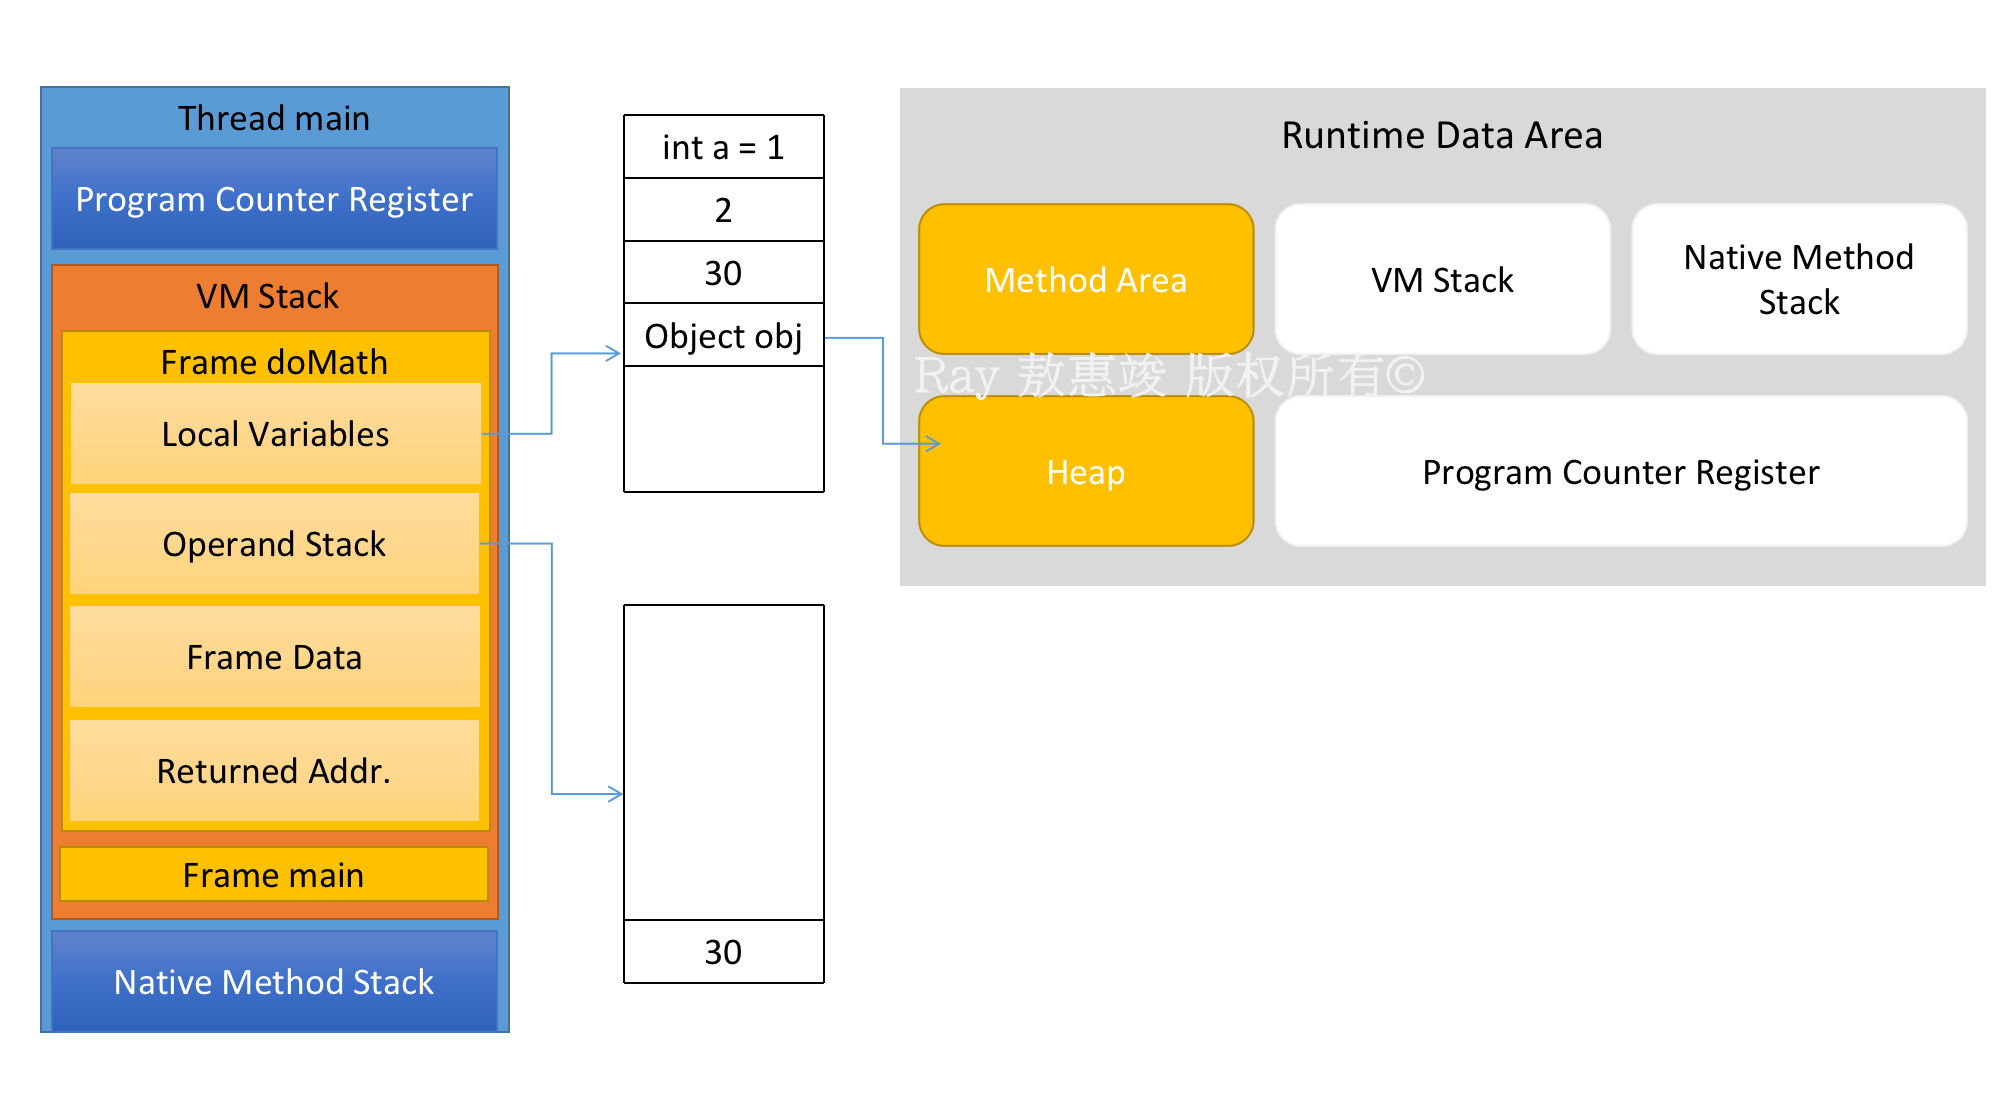
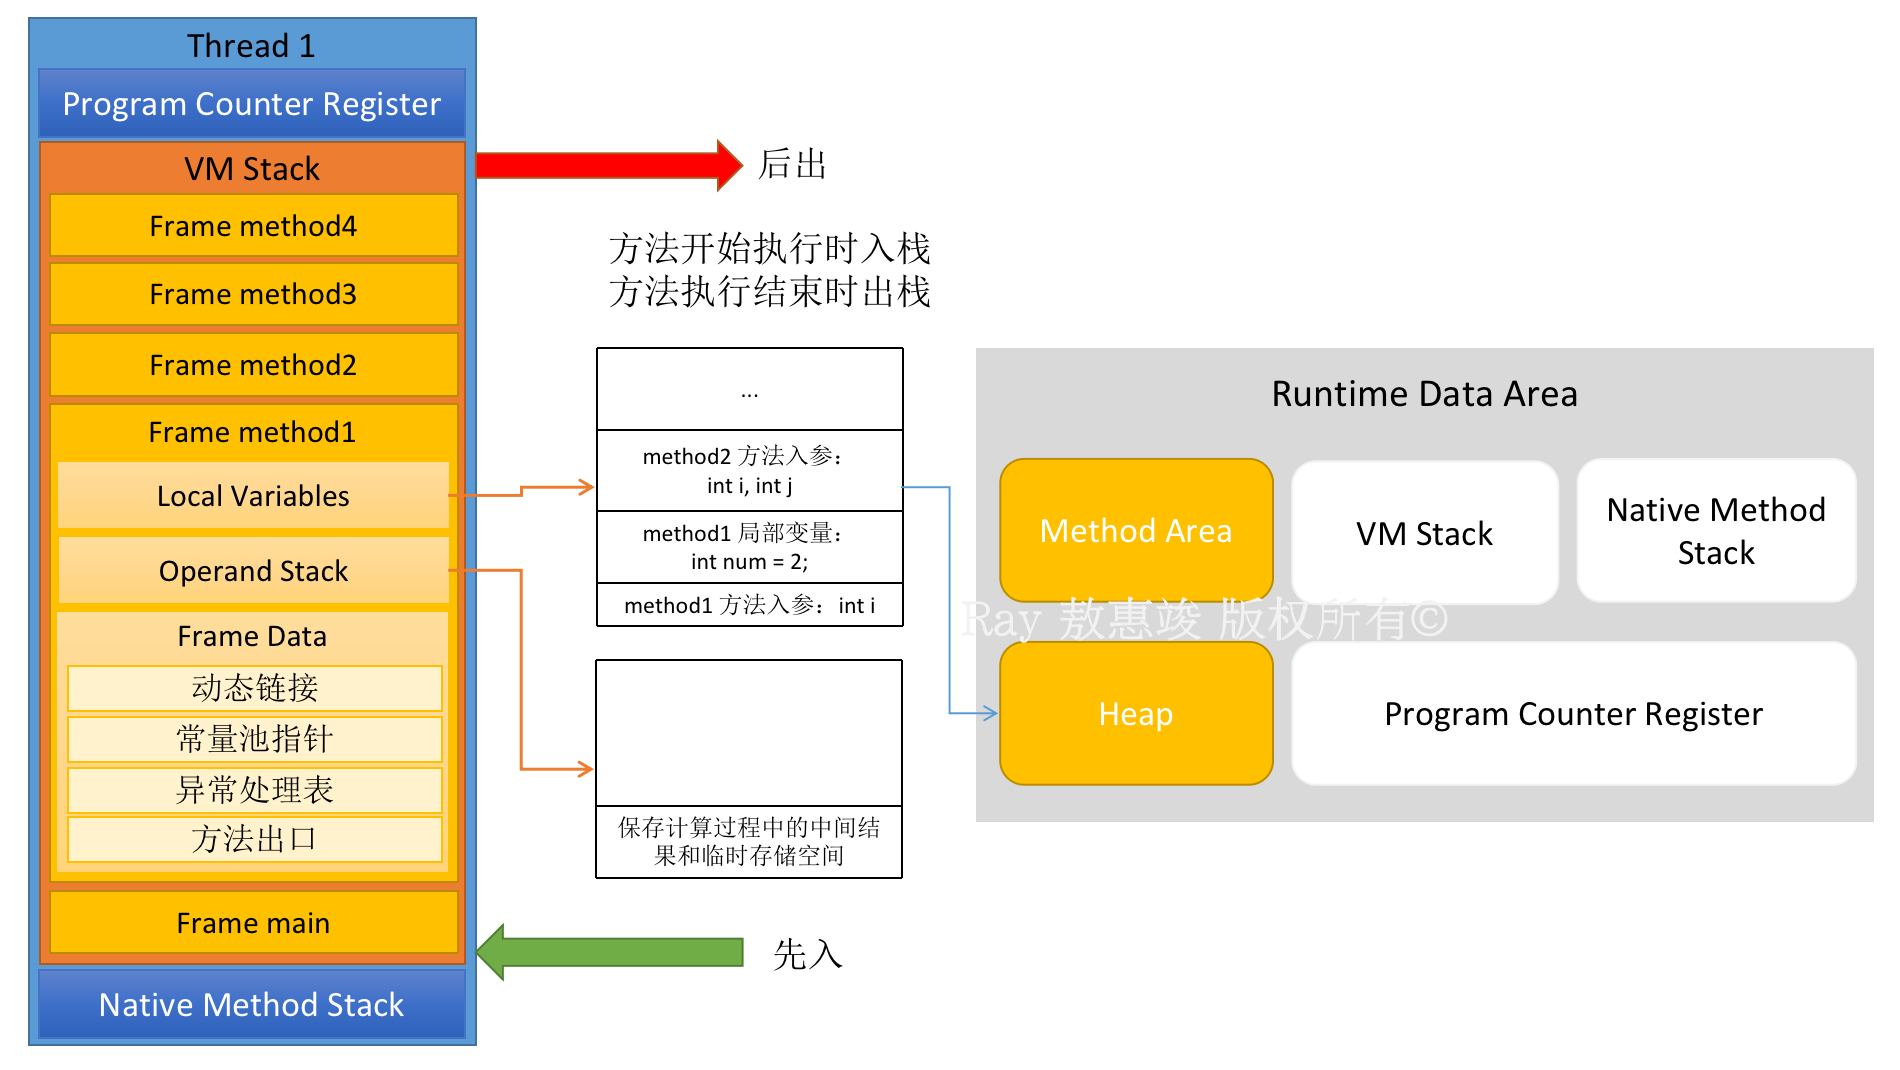
Site updated: 2021-08-23 23:05:19

diff --git a/2021/07/07/jvm-basics/index.html b/2021/07/07/jvm-basics/index.html
@@ -37,7 +37,7 @@
 <meta property="og:image" content="http://example.com/2021/07/07/jvm-basics/memory-allocate.png">
 <meta property="og:image" content="http://example.com/2021/07/07/jvm-basics/object-allocate.png">
 <meta property="article:published_time" content="2021-07-07T14:44:49.000Z">
-<meta property="article:modified_time" content="2021-08-22T16:00:33.181Z">
+<meta property="article:modified_time" content="2021-08-23T14:55:34.525Z">
 <meta property="article:author" content="敖惠竣｜Ao Huijun, Raymond">
 <meta property="article:tag" content="Java">
 <meta property="article:tag" content="JVM">
@@ -289,7 +289,7 @@
 <ul>
 <li>存在于 Java 8 之前的 Hotspot 虚拟机中，其他类型 JVM 没有这个概念</li>
 <li>从 Java 8 开始，PermGen 被取消，以 Metaspace 元空间代替</li>
-<li>存放 Class 和 Meta 信息等，GC 时一般不清理。</li>
+<li>内存的永久保存区域，存放 Class 和 Meta 信息等，GC 时不清理。</li>
 </ul>
 <p>实际上，堆只保存对象实例的<strong>属性类型</strong>、<strong>属性值</strong>（多数在常量池中）、<strong>运行时数据</strong>和<strong>对象本身类型标记</strong>（在<a href="/2021/07/16/object-header">对象头</a>中）等，并不保存对象的方法（保存在栈里）。</p>
 <p>要注意的是，在创建一个对象的时候：</p>
@@ -302,7 +302,7 @@
 <p>方法区是 JVM 的一个<strong>概念</strong>，各个不同的 JVM 有不一样的具体实现，不同版本的 JDK 对应的 JVM 也会根据设计规范有不一样的实现。</p>
 <p>方法区存放的东西有很多，主要包括：</p>
 <ol>
-<li>Object Class Data（类的类定义数据，即类信息）</li>
+<li>Object Class Data（类的类定义数据，即类型信息）</li>
 <li>域（Field）信息</li>
 <li>方法（Method）信息</li>
 <li>即时编译器 JIT 编译后的代码缓存（CodeCache）</li>
@@ -366,7 +366,8 @@
 <ol>
 <li>设置的永久区空间大小，不太好确定，更容易遇到内存溢出的问题</li>
 <li>垃圾回收的时候会扫描永久区：耗时</li>
-<li>对永久区调优比较困难</li>
+<li>而且对永久区的调优是比较困难的</li>
+<li>Hotspot 为了能与 Oracle JRockit（没有永久区）合并而做的改动</li>
 </ol>
 <br>
 <br>
@@ -392,6 +393,7 @@
 <li>每个方法开始执行时创建栈帧（stack frame），压入虚拟机栈；执行结束时栈帧出栈<ul>
 <li>返回至返回地址（Return Address，即指针）</li>
 <li>每个<strong>方法使用时才会被压入栈</strong>，方法不被使用时则不占用内存</li>
+<li>栈顶对应于<strong>正在执行</strong>的方法</li>
 </ul>
 </li>
 <li>每个栈帧对应于一个方法名，就是一个方法的内存模型<ul>
@@ -407,7 +409,7 @@
 <p><strong>a. 局部变量表 Local Variables</strong></p>
 <ul>
 <li>是一个以一个字长（8 bits）为单位、从 0 开始计数的数组：通过 index 索引访问</li>
-<li>存放了编译期可知的各种基本数据类型，以及对象的引用</li>
+<li>存放了编译期可知（作用域）的各种基本数据类型，以及对象的引用</li>
 <li><code>short</code>、<code>byte</code>、<code>char</code> 和 <code>boolean</code> 等类型变量值在存入该数组前要被转换成 <strong><code>int</code></strong> 值</li>
 <li>而 <code>long</code> 和 <code>double</code> 因为在数组中会占据连续的两项：<ul>
 <li>在访问局部变量中的 <code>long</code> 或 <code>double</code> 时，只需取出连续两项的第一项的索引值即可</li>
@@ -419,7 +421,7 @@
 <p><strong>b. 操作数栈 Operand Stack</strong></p>
 <ul>
 <li>结构与局部变量表一致，但对它的访问是通过 push 和 pop 操作来进行的，而不是通过索引；</li>
-<li>可以被看成是栈帧所对应的方法的计算过程中，数据的临时存储区域</li>
+<li>可以被看成是栈帧所对应的方法的计算过程中，数据的临时存储区域，可以保存中间结果</li>
 </ul>
 <p><strong>c. 帧数据 Frame Data</strong></p>
 <p>包括：</p>
@@ -440,9 +442,11 @@
 </ul>
 <br>
 
-<p>比如：一个 Java 类中定义了 doMath() 方法。</p>
+<p>例子：</p>
+<figure class="highlight java"><table><tr><td class="gutter"><pre><span class="line">1</span><br><span class="line">2</span><br><span class="line">3</span><br><span class="line">4</span><br><span class="line">5</span><br><span class="line">6</span><br><span class="line">7</span><br><span class="line">8</span><br><span class="line">9</span><br><span class="line">10</span><br><span class="line">11</span><br><span class="line">12</span><br><span class="line">13</span><br><span class="line">14</span><br><span class="line">15</span><br><span class="line">16</span><br><span class="line">17</span><br><span class="line">18</span><br><span class="line">19</span><br><span class="line">20</span><br><span class="line">21</span><br><span class="line">22</span><br><span class="line">23</span><br><span class="line">24</span><br><span class="line">25</span><br><span class="line">26</span><br><span class="line">27</span><br><span class="line">28</span><br><span class="line">29</span><br></pre></td><td class="code"><pre><span class="line"><span class="keyword">public</span> <span class="class"><span class="keyword">class</span> <span class="title">StackFrameTest</span> </span>&#123;</span><br><span class="line"></span><br><span class="line">    <span class="function"><span class="keyword">public</span> <span class="keyword">static</span> <span class="keyword">void</span> <span class="title">main</span><span class="params">(String[] args)</span> </span>&#123;</span><br><span class="line">        StackFrameTest test = <span class="keyword">new</span> StackFrameTest();</span><br><span class="line">        test.method1(<span class="number">1</span>);</span><br><span class="line">    &#125;</span><br><span class="line"></span><br><span class="line">    <span class="function"><span class="keyword">public</span> <span class="keyword">void</span> <span class="title">method1</span><span class="params">(<span class="keyword">int</span> i)</span> </span>&#123;</span><br><span class="line">        <span class="keyword">int</span> num = <span class="number">2</span>;</span><br><span class="line">        System.out.println(<span class="string">&quot;method1 i = &quot;</span> + i);</span><br><span class="line">        method2(i, num);</span><br><span class="line">    &#125;</span><br><span class="line"></span><br><span class="line">    <span class="function"><span class="keyword">public</span> <span class="keyword">void</span> <span class="title">method2</span><span class="params">(<span class="keyword">int</span> i, <span class="keyword">int</span> j)</span> </span>&#123;</span><br><span class="line">        <span class="keyword">int</span> num = <span class="number">3</span>;</span><br><span class="line">        System.out.println(<span class="string">&quot;method2 i = &quot;</span> + i + <span class="string">&quot;, j = &quot;</span> + j);</span><br><span class="line">        method3(i, j, num);</span><br><span class="line">    &#125;</span><br><span class="line"></span><br><span class="line">    <span class="function"><span class="keyword">public</span> <span class="keyword">void</span> <span class="title">method3</span><span class="params">(<span class="keyword">int</span> i, <span class="keyword">int</span> j, <span class="keyword">int</span> x)</span> </span>&#123;</span><br><span class="line">        <span class="keyword">int</span> num = <span class="number">4</span>;</span><br><span class="line">        System.out.println(<span class="string">&quot;method3 i = &quot;</span> + i + <span class="string">&quot;, j = &quot;</span> + j + <span class="string">&quot;, x = &quot;</span> + x);</span><br><span class="line">        method4(i, j, x, num);</span><br><span class="line">    &#125;</span><br><span class="line"></span><br><span class="line">    <span class="function"><span class="keyword">public</span> <span class="keyword">void</span> <span class="title">method4</span><span class="params">(<span class="keyword">int</span> i, <span class="keyword">int</span> j, <span class="keyword">int</span> x, <span class="keyword">int</span> y)</span> </span>&#123;</span><br><span class="line">        System.out.println(<span class="string">&quot;method3 i = &quot;</span> + i + <span class="string">&quot;, j = &quot;</span> + j + <span class="string">&quot;, x = &quot;</span> + x + <span class="string">&quot;, y = &quot;</span> + y);</span><br><span class="line">    &#125;</span><br><span class="line">&#125;</span><br></pre></td></tr></table></figure>
+
 <ul>
-<li>执行该方法的时候，除了 main 栈帧及其它方法对应的栈帧之外，栈帧 doMath 的变量表、操作数栈、帧数据的变化，以及程序计数器、本地方法栈等如下图：</li>
+<li>执行 main() 方法时，对应栈帧的变量表、操作数栈、帧数据的变化，以及程序计数器、本地方法栈等如下图：</li>
 </ul>
 <p><img src="/2021/07/07/jvm-basics/vm-stack.png"></p>
 <br>

diff --git a/2021/07/09/garbage-collection/index.html b/2021/07/09/garbage-collection/index.html
@@ -37,7 +37,7 @@
 <meta property="og:image" content="http://example.com/2021/07/09/garbage-collection/cms_gc.jpg">
 <meta property="og:image" content="http://example.com/2021/07/09/garbage-collection/g1_gc.png">
 <meta property="article:published_time" content="2021-07-09T14:44:14.000Z">
-<meta property="article:modified_time" content="2021-08-21T15:13:08.956Z">
+<meta property="article:modified_time" content="2021-08-23T15:04:55.419Z">
 <meta property="article:author" content="敖惠竣｜Ao Huijun, Raymond">
 <meta property="article:tag" content="Java">
 <meta property="article:tag" content="JVM">
@@ -265,7 +265,7 @@
 <li><p>本地方法栈中引用的对象。</p>
 </li>
 </ul>
-<p>GC roots 不可达的对象将会被回收。</p>
+<p>从根结点开始去访问某些对象，如果能被访问到，就将这些对象是<strong>可触及的</strong>。从 GC roots 开始，不可触及（不可达）的对象将会被回收。</p>
 <br>
 
 <p><img src="/2021/07/09/garbage-collection/root-search.png"></p>
